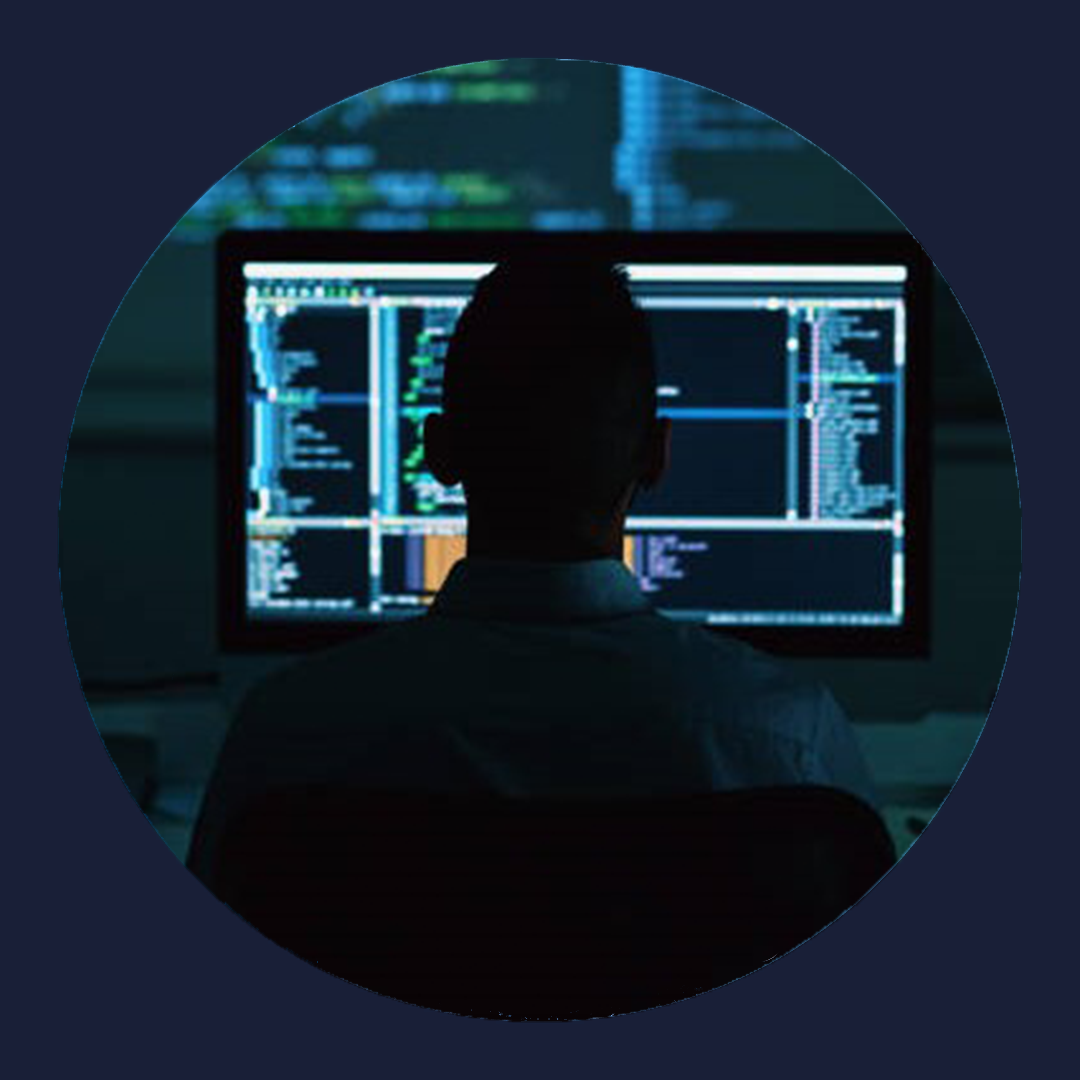
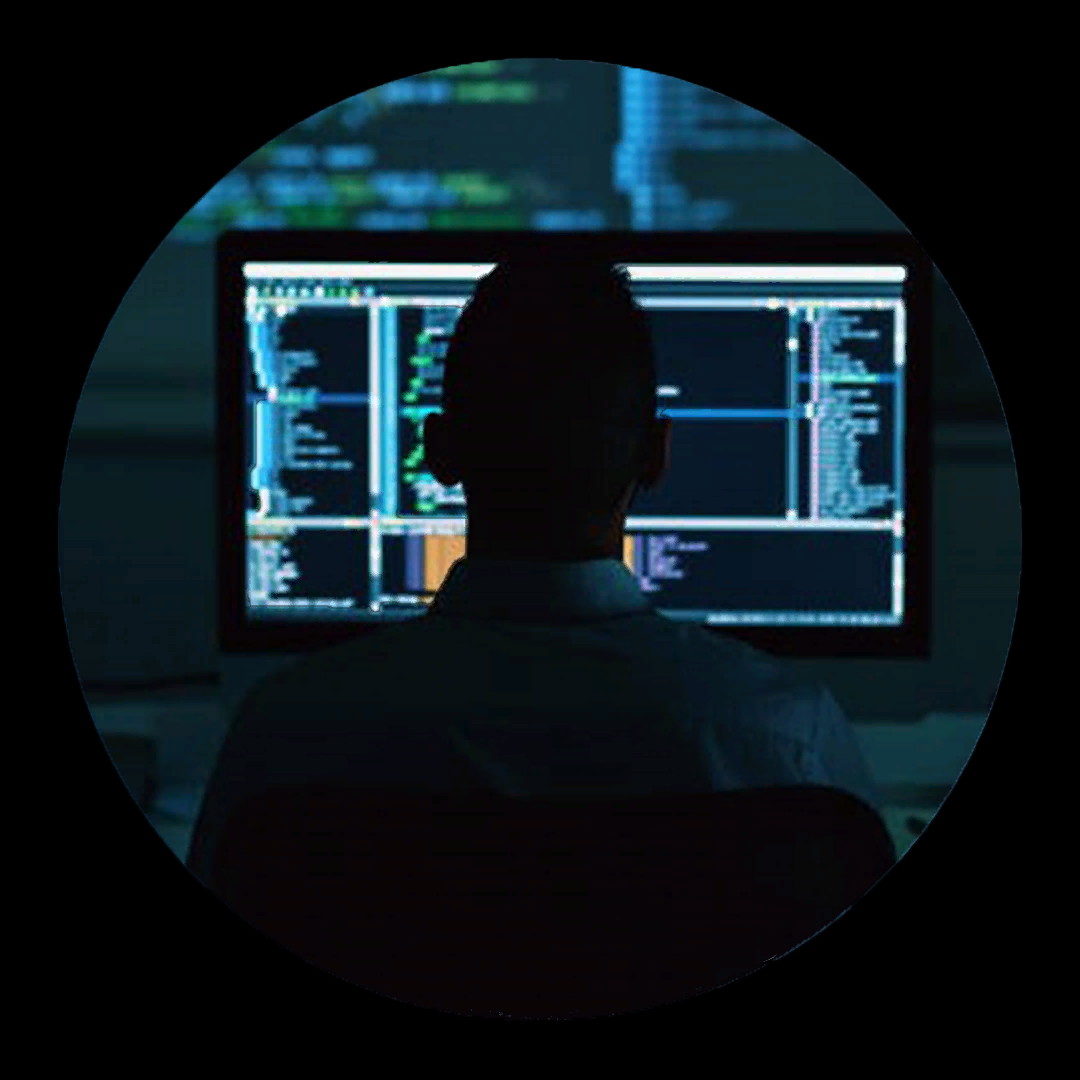
Few fixes and changes

diff --git a/index.html b/index.html
@@ -12,7 +12,7 @@
     </head>
     <body>
         <header class="header">
-            <a href="https://iamcamzy.github.io/portfolio/" class="logo">Portfolio</a>
+            <a href="#home" class="logo">John <span>Richmund</span></a>
 
             <i class="fa-solid fa-bars" id="menu-icon"></i>
 
@@ -41,7 +41,7 @@
             </div>
 
             <div class="home-img">
-                <img src="./img/asdsad.png" alt="">
+                <img src="./img/asdsad.png">
             </div>
         </section>
 
@@ -52,9 +52,12 @@
 
             <div class="about-content">
                 <h2 class="heading">About <span>Me!</span></h2>
-                <h3><span class="multiple-texts"></span></h3>
-                <p>I'm an aspiring backend developer that loves to play games! Does do a bit of sql for the game Dragon Nest. Have skills in 3d modeling and textures.</p>
-            </div>
+                <h3>I'm <strong>John Richmund Galorio</strong>, an IT student studying to be a backend developer.</h3>
+                <br>
+                <h3>I aim to specialize on backend c# language. I have knowledge on 3d modeling and texturing.
+                    I also have my own private server game that i converted to c# language that uses sql database, animation, lua etc...</h3>
+                    <p>I have a 2years worth of knowledge in modding in different games</p>
+                <h3><span>I aim to broaden my knowledge in programming and be able to use it in future projects and works.</span></h3>
         </section>
 
         <section class="skills" id="skills">
@@ -92,7 +95,7 @@
 
             <div class="projects-container">
                 <div class="projects-box">
-                    <img src="img/1.jpg" alt="">
+                    <img src="proj_img/210906.jpg" alt="">
                     <div class="projects-layer">
                         <h4></h4>
                         <p></p>
@@ -101,7 +104,7 @@
                 </div>
 
                 <div class="projects-box">
-                    <img src="img/2.jpg" alt="">
+                    <img src="proj_img/210880.jpg" alt="">
                     <div class="projects-layer">
                         <h4></h4>
                         <p></p>
@@ -110,7 +113,7 @@
                 </div>
 
                 <div class="projects-box">
-                    <img src="img/3.jpg" alt="">
+                    <img src="proj_img/210915.jpg" alt="">
                     <div class="projects-layer">
                         <h4></h4>
                         <p></p>
@@ -119,7 +122,7 @@
                 </div>
 
                 <div class="projects-box">
-                    <img src="img/4.jpg" alt="">
+                    <img src="proj_img/210929.jpg" alt="">
                     <div class="projects-layer">
                         <h4></h4>
                         <p></p>
@@ -128,7 +131,7 @@
                 </div>
 
                 <div class="projects-box">
-                    <img src="img/5.jpg" alt="">
+                    <img src="proj_img/210933.jpg" alt="">
                     <div class="projects-layer">
                         <h4></h4>
                         <p></p>
@@ -137,7 +140,7 @@
                 </div>
 
                 <div class="projects-box">
-                    <img src="img/6.jpg" alt="">
+                    <img src="proj_img/210950.jpg" alt="">
                     <div class="projects-layer">
                         <h4></h4>
                         <p></p>
@@ -153,7 +156,7 @@
 
         <div class="certificate-container">
             <div class="certificate-box">
-                <img src="./img/Screenshot 2025-01-26 113746.svg">
+                <img src="./img/Screenshot 2025-01-26 113746.svg" alt="">
                 <div class="certificate-layer">
                     <h4></h4>
                     <p></p>
@@ -161,7 +164,7 @@
             </div>
 
             <div class="certificate-box">
-                <img src="./img/Screenshot 2025-01-26 113804.svg">
+                <img src="./img/Screenshot 2025-01-26 113804.svg" alt="">
                 <div class="certificate-layer">
                     <h4></h4>
                     <p></p>
@@ -169,7 +172,7 @@
             </div>
 
             <div class="certificate-box">
-                <img src="./img/Screenshot 2025-01-26 113844.svg">
+                <img src="./img/Screenshot 2025-01-26 113844.svg" alt="">
                 <div class="certificate-layer">
                     <h4></h4>
                     <p></p>
@@ -199,6 +202,7 @@
         </section>
 
         
+
         <footer class="footer">
             <div class="footer-text">
                 <p>Made by <b>John Richmund Galorio</b> | <b>Contact me</b> at - jrgaloriodev04@gmail.com |</p>

diff --git a/style.css b/style.css
@@ -12,10 +12,10 @@
 }
 
 :root {
-    --bg-color: #191f36;
-    --snd-bg-color: #262B40;
+    --bg-color: #000000;
+    --snd-bg-color: #000000;
     --text-color: #fff;
-    --main-color: #59B2F4;
+    --main-color: #00ffee;
 }
 
 html {
@@ -43,7 +43,7 @@ section {
     display: flex;
     justify-content: space-between;
     align-items: center;
-    z-index: 100;
+    z-index: 5;
 }
 
 .header.sticky {
@@ -52,10 +52,21 @@ section {
 
 .logo {
     font-size: 2.8rem;
-    color: var(--text-color);
+    color: rgb(16, 255, 243);
     font-weight: 700;
     cursor: pointer;
+    transition: 0.3s ease;
 }
+
+.logo:hover {
+    transform: scale(1.1);
+}
+
+
+.logo span {
+    text-shadow: 0 0 25px white;
+}
+
 
 .navbar a {
     font-size: 1.5rem;
@@ -90,8 +101,17 @@ section {
     margin-bottom: 2rem;
 }
 
+.home span {
+    text-shadow: 0 0 25px white;
+}
+
+
 span {
-    color: var(--main-color);
+    color: rgb(14, 207, 255);
+}
+
+strong {
+    color: rgb(0, 255, 98);
 }
 
 .home-content h1 {
@@ -164,8 +184,16 @@ span {
     justify-content: center;
     align-items: center;
     gap: 2rem;
-    background: var(--snd-bg-color);
+    background: url(./img/173782.jpg);
+    background-size: 191rem;
+    background-position: center;
+    background-repeat: no-repeat;
 }
+
+.about span {
+    text-shadow: 0 0 25px white;
+}
+
 
 .heading {
     text-align: center;
@@ -186,9 +214,25 @@ span {
     margin: 2rem 0 3rem;
 }
 
+
+.logo span {
+    text-shadow: 0 0 25px white;
+}
+
+
+.skills {
+    background: url(./img/271048.png);
+    background-position: right -25px;
+}
+
 .skills h2 {
     margin-bottom: 5rem;
 }
+
+.skills span {
+    text-shadow: 0 0 25px white;
+}
+
 
 
 .icons {
@@ -212,7 +256,7 @@ span {
 }
 
 .icons-slide img {
-    height:110px;
+    height:80px;
     margin:50px;
 }
 
@@ -225,6 +269,11 @@ span {
 .projects {
     background: var(--snd-bg-color);
 }
+
+.projects span {
+    text-shadow: 0 0 25px white;
+}
+
 
 .projects h2 {
     margin-bottom: 4rem;
@@ -305,6 +354,11 @@ span {
     background: var(--bg-color);
 }
 
+.certificate span {
+    text-shadow: 0 0 25px white;
+}
+
+
 .certificate h2 {
     margin-bottom: 4rem;
 }
@@ -378,8 +432,16 @@ span {
 
 
 .contact {
-    background: var(--snd-bg-color);
+    background: url(./img/2413654.jpg);
+    background-position: center;
+    background-repeat: no-repeat;
 }
+
+
+.contact span {
+    text-shadow: 0 0 25px white;
+}
+
 
 .contact h2 {
     margin-bottom: 3rem;
@@ -409,8 +471,9 @@ input::-webkit-inner-spin-button {-webkit-appearance: none;}
     font-size: 1.6rem;
     color: var(--text-color);
     background: var(--bg-color);
-    border-radius: .8rem;
+    border-radius: 2rem;
     margin: .7rem 0;
+    border: var(--main-color);
 }
 
 .contact form .input-box input {

diff --git a/main.js b/main.js
@@ -44,16 +44,13 @@ ScrollReveal({
 });
 
 ScrollReveal().reveal('.home-content, heading', { origin: 'top' });
-ScrollReveal().reveal('.home-img, .skills-container, .projects-box, .contact form', { origin: 'bottom' });
+ScrollReveal().reveal('.home-img, .skills-container, .projects-box, .contact form', 'certificate-box', { origin: 'bottom' });
 ScrollReveal().reveal('.home-content h1, .about-img', { origin: 'left' });
 ScrollReveal().reveal('.home-content p, .about-content', { origin: 'right' });
 ScrollReveal().reveal('.icons', { origin: 'right'});
 ScrollReveal().reveal('.skills', { origin: 'top'});
 ScrollReveal().reveal('.projects', { origin: 'top'});
 ScrollReveal().reveal('.certificate', { origin: 'bottom'});
-ScrollReveal().reveal('.contact, .input-box', { origin: 'bottom'});
-ScrollReveal().reveal('.certificate-box', { origin: 'bottom'});
-ScrollReveal().reveal('.certificate-container', { origin: 'bottom'});
 
 // Typed JS
 const typed = new Typed('.multiple-text', {
@@ -64,8 +61,8 @@ const typed = new Typed('.multiple-text', {
     loop: true,
 });
 
-const types = new Typed('.multiple-texts', {
-    strings: ['Backend Developer'],
+const type1 = new Typed('.multiple-texts', {
+    strings: ['John Richmund Galorio'],
     typeSpeed: 70,
     backSpeed: 70,
     backDelay: 1000,
